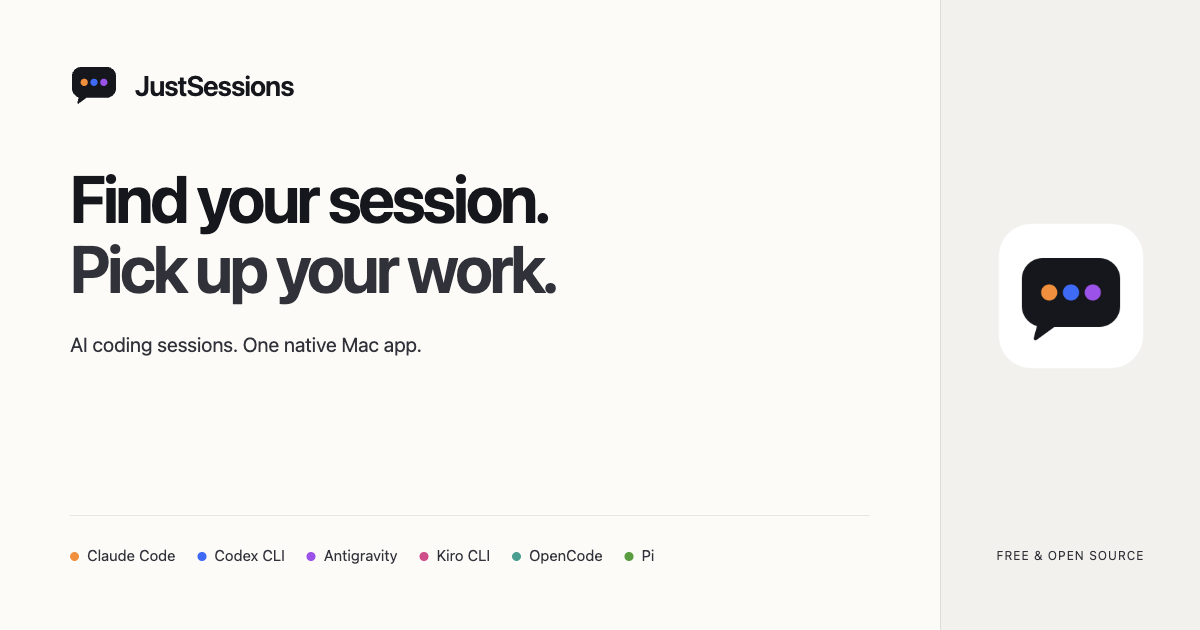
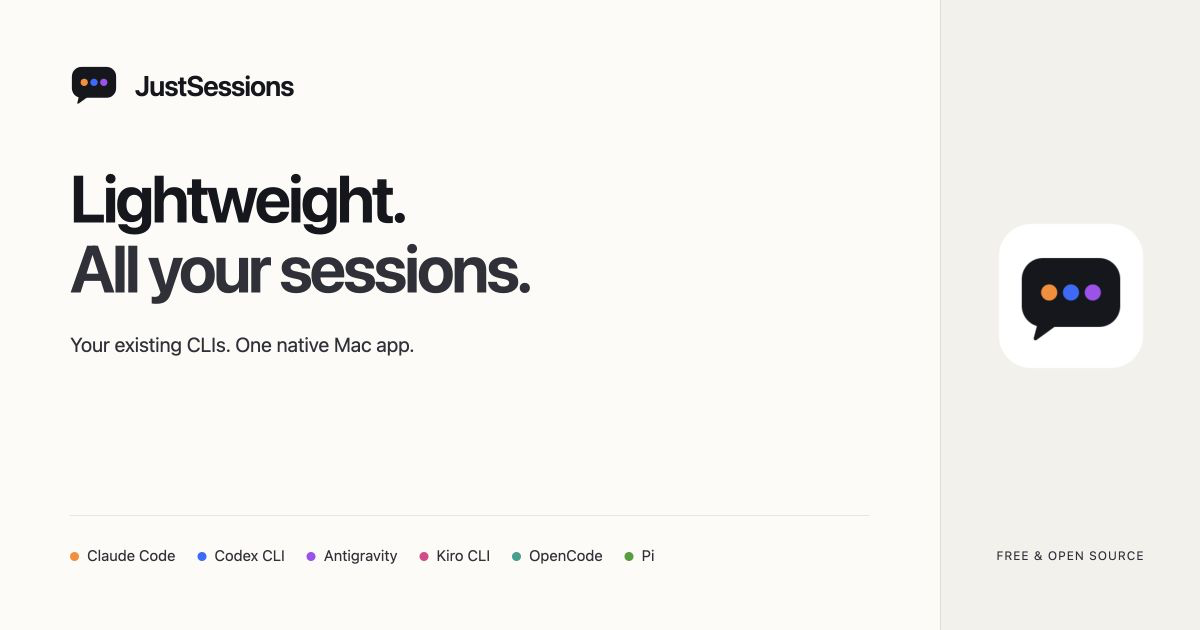
Emphasize lightweight native session management

diff --git a/website/index.html b/website/index.html
@@ -5,20 +5,20 @@
   <meta name="viewport" content="width=device-width, initial-scale=1">
   <meta name="theme-color" content="#fcfbf8">
   <title>JustSessions — Claude Code & Codex Session Manager for macOS</title>
-  <meta name="description" content="Find, read and resume Claude Code, Codex, Antigravity, Kiro, OpenCode and Pi sessions. A native macOS wrapper for your CLIs, with SSH and bundled tmux.">
+  <meta name="description" content="Lightweight, native macOS session manager for Claude Code, Codex, Antigravity, Kiro, OpenCode and Pi. Your existing CLIs, with SSH and bundled tmux.">
   <link rel="canonical" href="https://yangzichao.github.io/JustSessions/">
   <meta property="og:type" content="website">
   <meta property="og:site_name" content="JustSessions">
   <meta property="og:title" content="JustSessions — Claude Code &amp; Codex Session Manager for macOS">
-  <meta property="og:description" content="Find, read and resume Claude Code, Codex, Antigravity, Kiro, OpenCode and Pi sessions. A native macOS wrapper for your CLIs, with SSH and bundled tmux.">
+  <meta property="og:description" content="Lightweight, native macOS session manager for Claude Code, Codex, Antigravity, Kiro, OpenCode and Pi. Your existing CLIs, with SSH and bundled tmux.">
   <meta property="og:url" content="https://yangzichao.github.io/JustSessions/">
   <meta property="og:image" content="https://yangzichao.github.io/JustSessions/assets/social-preview.png">
   <meta property="og:image:width" content="1200">
   <meta property="og:image:height" content="630">
-  <meta property="og:image:alt" content="JustSessions — Find your session. Pick up your work. Six AI coding tools in one native Mac app.">
+  <meta property="og:image:alt" content="JustSessions — Lightweight. All your sessions. Six AI coding tools in one native Mac app.">
   <meta name="twitter:card" content="summary_large_image">
   <meta name="twitter:title" content="JustSessions — Claude Code &amp; Codex Session Manager for macOS">
-  <meta name="twitter:description" content="Find, read and resume Claude Code, Codex, Antigravity, Kiro, OpenCode and Pi sessions. A native macOS wrapper for your CLIs, with SSH and bundled tmux.">
+  <meta name="twitter:description" content="Lightweight, native macOS session manager for Claude Code, Codex, Antigravity, Kiro, OpenCode and Pi. Your existing CLIs, with SSH and bundled tmux.">
   <meta name="twitter:image" content="https://yangzichao.github.io/JustSessions/assets/social-preview.png">
   <meta name="twitter:image:alt" content="JustSessions, a native macOS home for your AI coding sessions.">
   <link rel="icon" type="image/svg+xml" href="./assets/mark.svg">
@@ -42,7 +42,7 @@
       "url": "https://yangzichao.github.io/JustSessions/",
       "image": "https://yangzichao.github.io/JustSessions/assets/social-preview.png",
       "screenshot": "https://yangzichao.github.io/JustSessions/assets/native-terminal.jpg",
-      "description": "A native macOS wrapper for existing coding CLIs: find, read, resume, and manage sessions locally or over SSH, with bundled local tmux.",
+      "description": "A lightweight, native macOS wrapper for existing coding CLIs: find, read, resume, and manage sessions locally or over SSH, with bundled local tmux.",
       "operatingSystem": "macOS 14 or later (Apple Silicon)",
       "applicationCategory": "DeveloperApplication",
       "license": "https://github.com/yangzichao/JustSessions/blob/main/LICENSE",
@@ -74,10 +74,10 @@
       <div class="hero-introduction">
         <div class="hero-heading">
           <p class="eyebrow">AI session manager for macOS</p>
-          <h1 id="hero-title">Find your session.<br><span>Pick up your work.</span></h1>
+          <h1 id="hero-title">Lightweight.<br><span>All your sessions.</span></h1>
         </div>
         <div class="hero-copy">
-          <p class="hero-description">Your existing CLIs, organized by project and machine.</p>
+          <p class="hero-description">Your existing CLIs, organized in one native Mac app.</p>
           <div class="hero-actions">
             <a class="button" href="https://github.com/yangzichao/JustSessions/releases/latest/download/JustSessions.dmg"><span aria-hidden="true">↓</span> Download for macOS</a>
           </div>

diff --git a/website/social/preview.html b/website/social/preview.html
@@ -27,8 +27,8 @@
 <body>
   <main class="social-card">
     <div class="brand"><img src="../../Branding/SVG/mark.svg" alt="">JustSessions</div>
-    <h1>Find your session.<br><span>Pick up your work.</span></h1>
-    <p>AI coding sessions. One native Mac app.</p>
+    <h1>Lightweight.<br><span>All your sessions.</span></h1>
+    <p>Your existing CLIs. One native Mac app.</p>
     <div class="rule"></div>
     <div class="providers"><span><i class="claude"></i>Claude Code</span><span><i class="codex"></i>Codex CLI</span><span><i class="antigravity"></i>Antigravity</span><span><i class="kiro"></i>Kiro CLI</span><span><i class="opencode"></i>OpenCode</span><span><i class="pi"></i>Pi</span></div>
     <div class="side"><img src="../../Branding/PNG/app-icon-256.png" alt=""><p>FREE & OPEN SOURCE</p></div>

diff --git a/README.md b/README.md
@@ -5,7 +5,7 @@
 <h1 align="center">JustSessions — AI Coding Session Manager for macOS</h1>
 
 <p align="center">
-  <b>Find the right AI coding session. Pick up where you left off.</b><br>
+  <b>Lightweight. All your sessions.</b><br>
   A lightweight, native macOS app for Claude Code, OpenAI Codex CLI, Google Antigravity CLI, Kiro CLI, OpenCode, and Pi.<br>
   Local projects, remote machines over SSH, and sessions that keep running with tmux.
 </p>
@@ -22,7 +22,7 @@
   <a href="LICENSE"><img src="https://img.shields.io/github/license/yangzichao/JustSessions" alt="MIT license"></a>
 </p>
 
-**Find the conversation you need without hunting through terminal tabs.** JustSessions brings your AI coding history into one native Mac app. Search projects and sessions, preview their conversations, and resume in the original CLI and project folder.
+**A lightweight home for your coding sessions.** JustSessions organizes the history your CLIs already create in one native Mac app. Search projects and sessions, preview their conversations, and resume in the original CLI and project folder.
 
 [Website](https://yangzichao.github.io/JustSessions/) · [Download](#download) · [Getting started](docs/guides/getting-started.md) · [SSH](#remote-sessions-over-ssh) · [tmux](#keep-sessions-running-with-tmux) · [Supported CLIs](#supported-clis) · [Documentation](docs/README.md)
 
